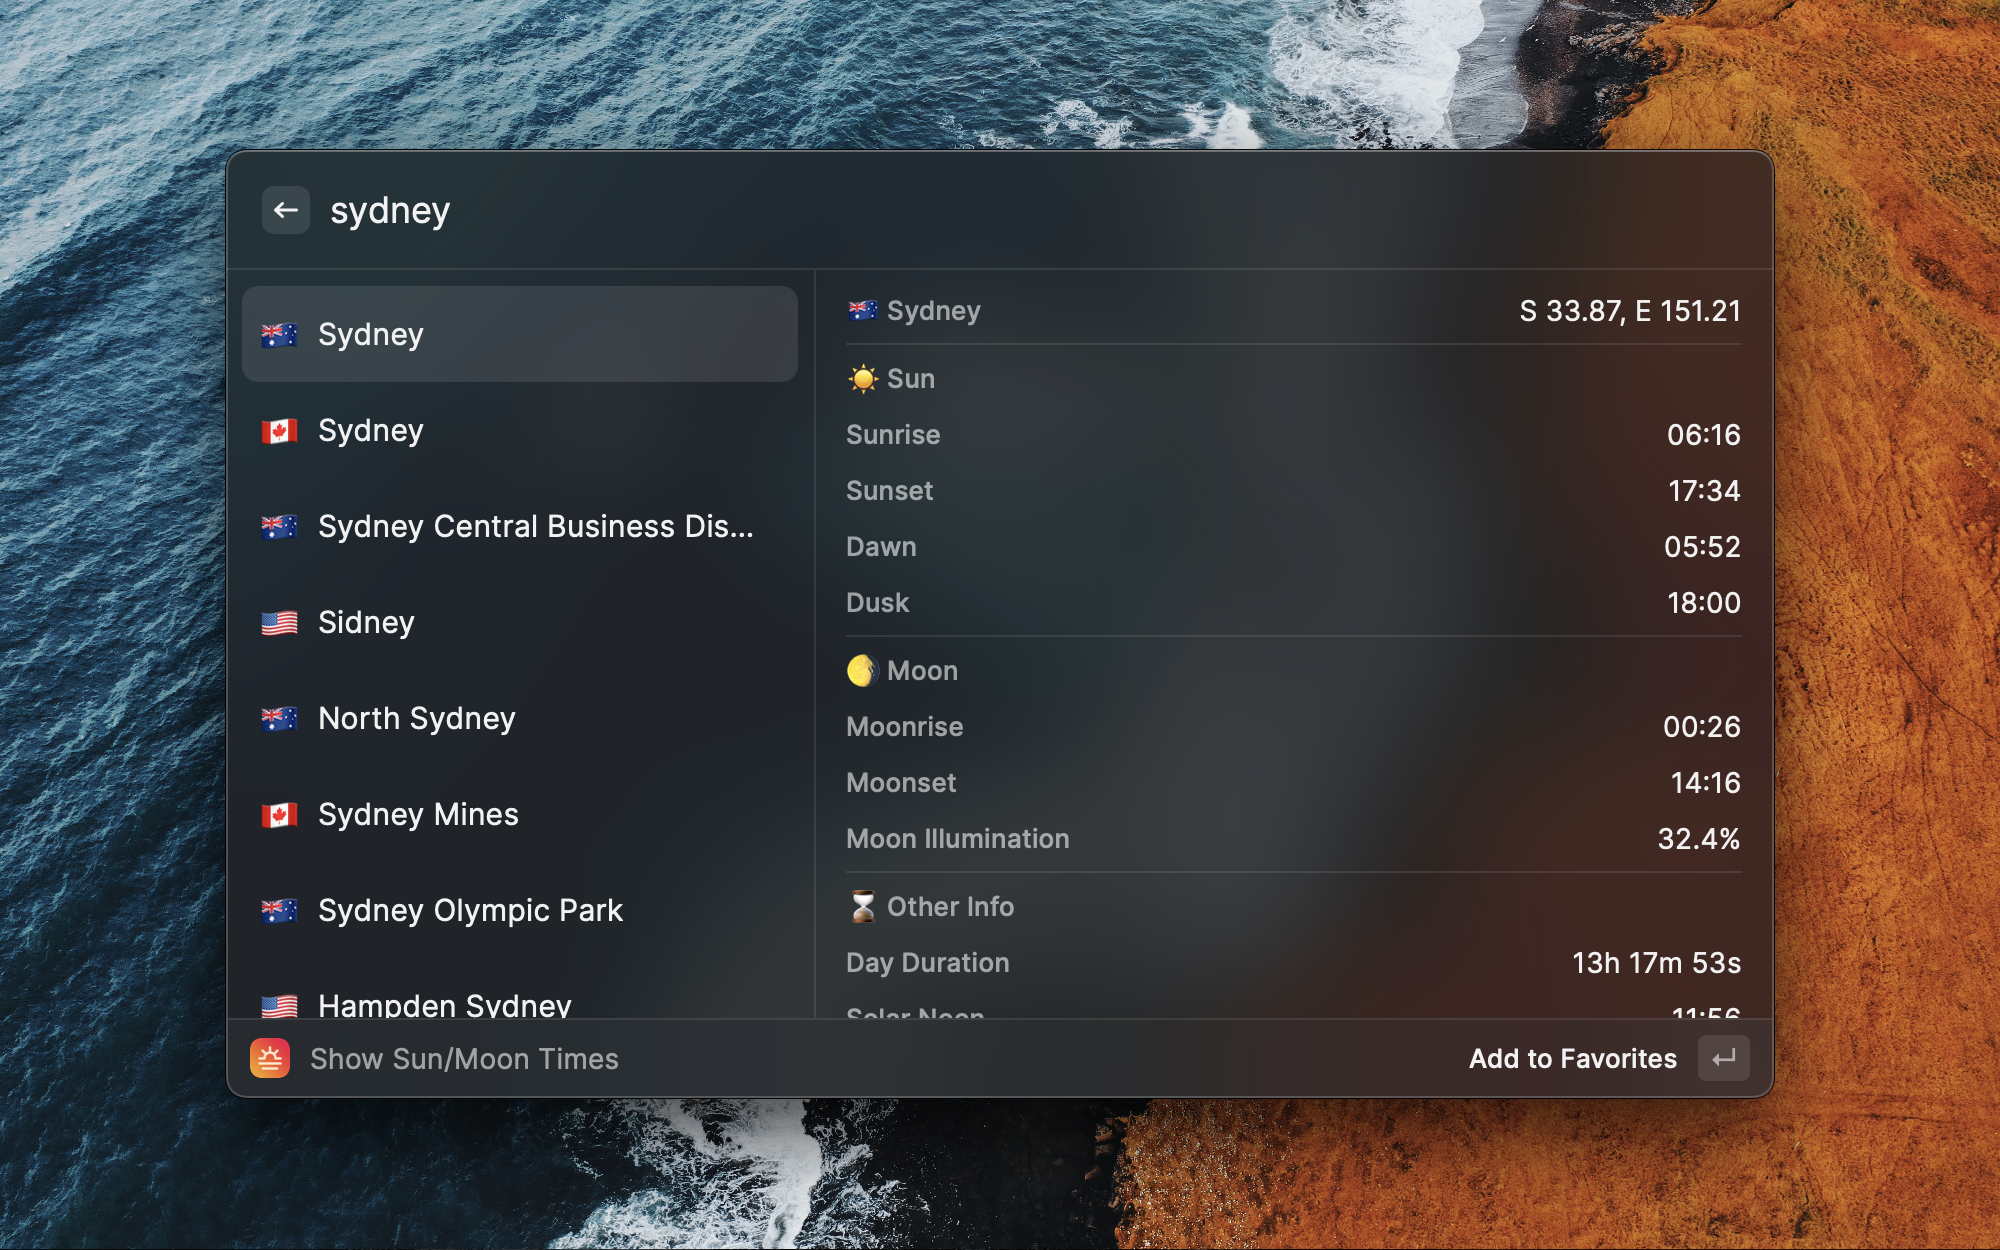
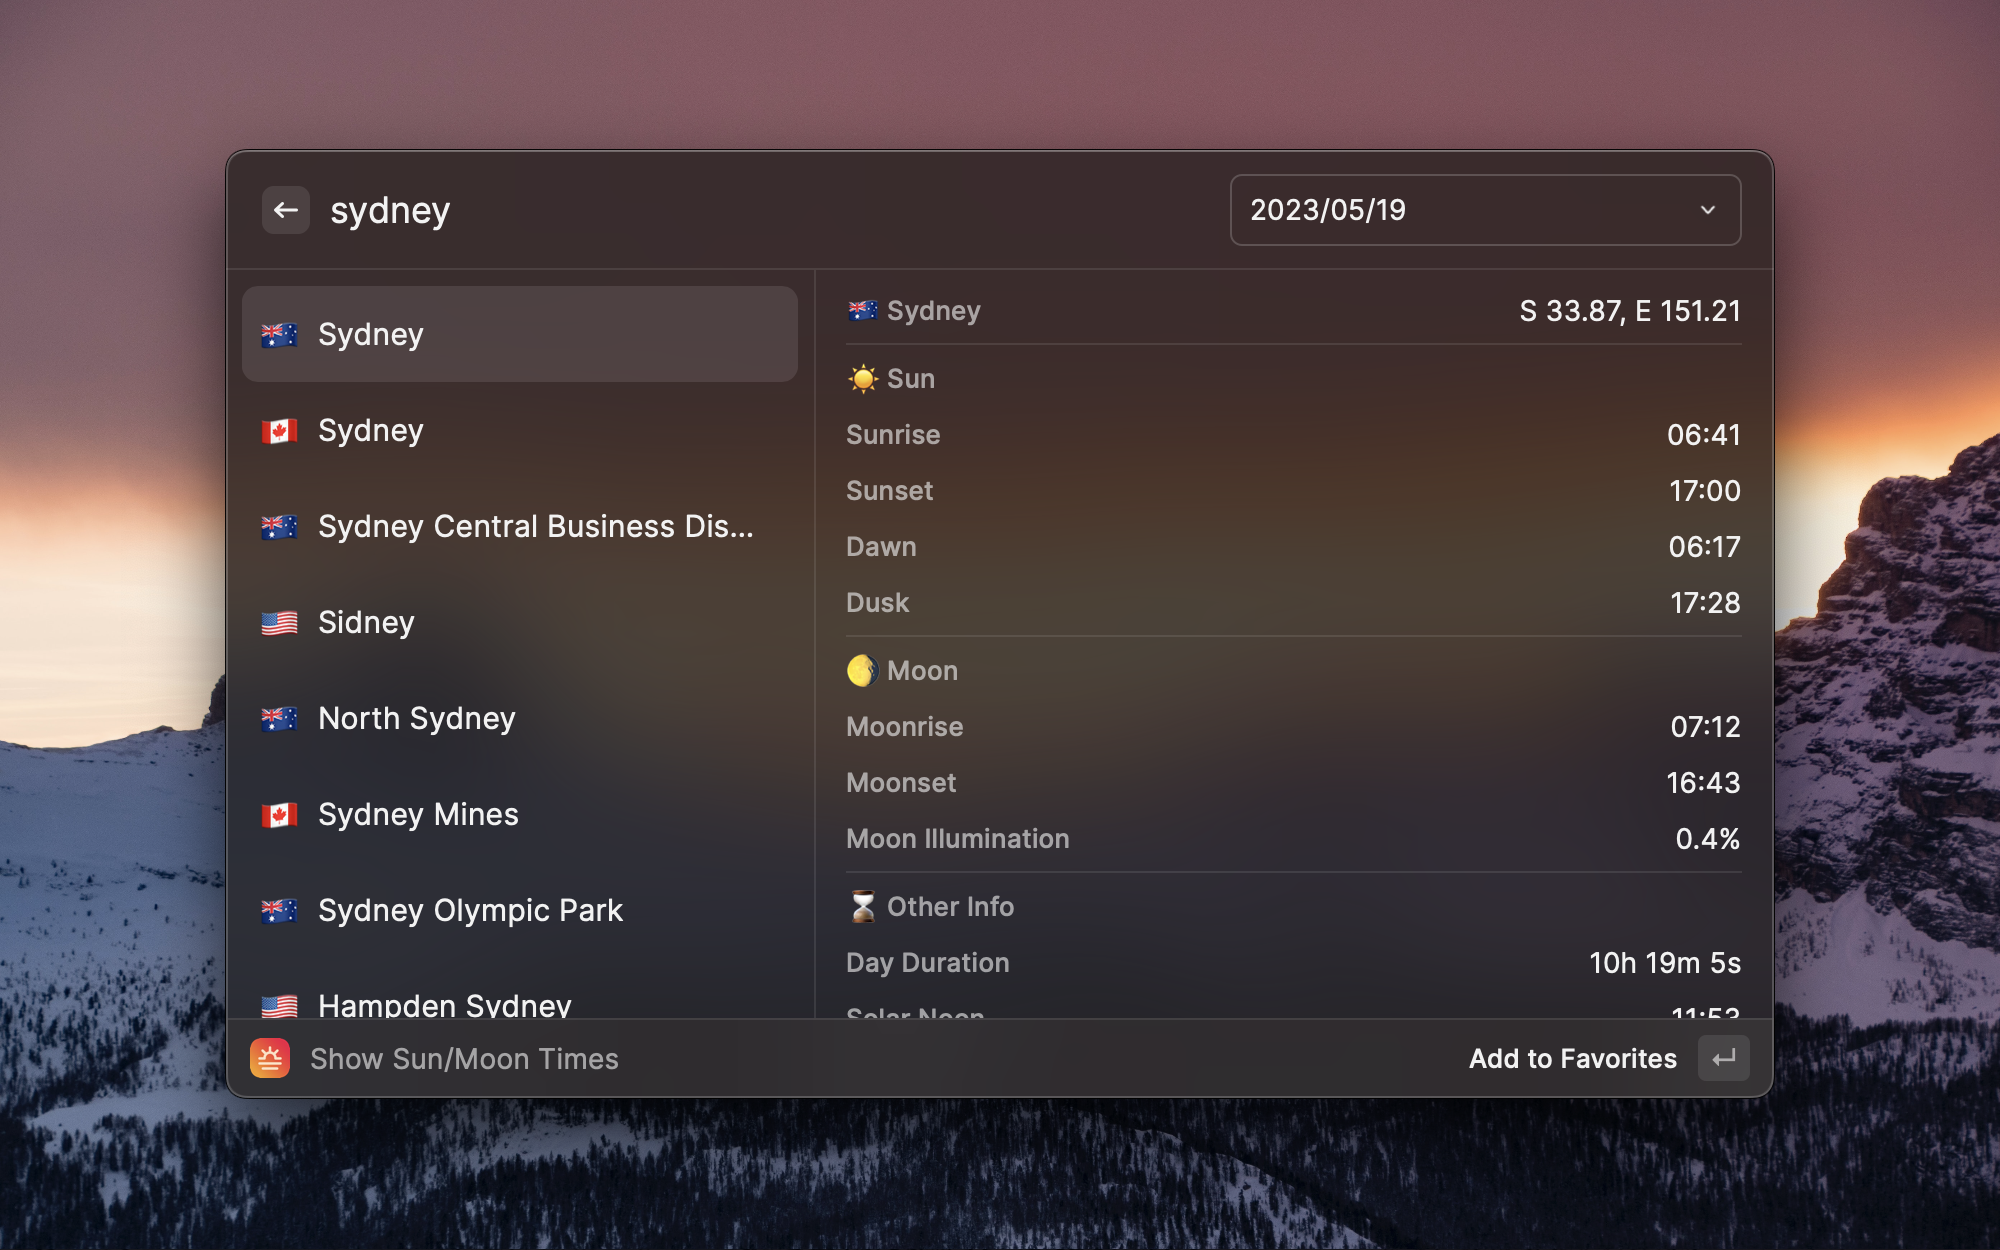
updated docs

diff --git a/README.md b/README.md
@@ -5,11 +5,12 @@ Show info for sun and moon for any city in the World.
 ## Features
 
 ### Search
-![Search](./assets/sun-moon-times-1.png)
+![Search](assets/sun-moon-times-1.png)
 - Search for a city and display detailed info for the sun and moon
+- Change the date to see the sun and moon times for days in the past or future (+-12 months from today)
 
 ### Favorites
-![Favorites](./assets/sun-moon-times-2.png)
+![Favorites](assets/sun-moon-times-2.png)
 - Add and remove cities from your favorites list
 - Change the order of the cities in your favorites list
 

diff --git a/CHANGELOG.md b/CHANGELOG.md
@@ -1,6 +1,15 @@
 # Sun/Moon Times Changelog
 
-## [Initial Version] - 2023-03-24
+## [v1.2.0] - 2023-04-22
+
+- Add date picker to select a date other than today
+- same minor improvements
+
+## [v1.1.0] - 2023-04-14
+
+- Change detail view to use List.Detail instead of a separate view
+
+## [v1.0.0] - 2023-03-24
 
 - Search for a city and display detailed info for the sun and moon
 - Add and remove cities from your favorites list.
